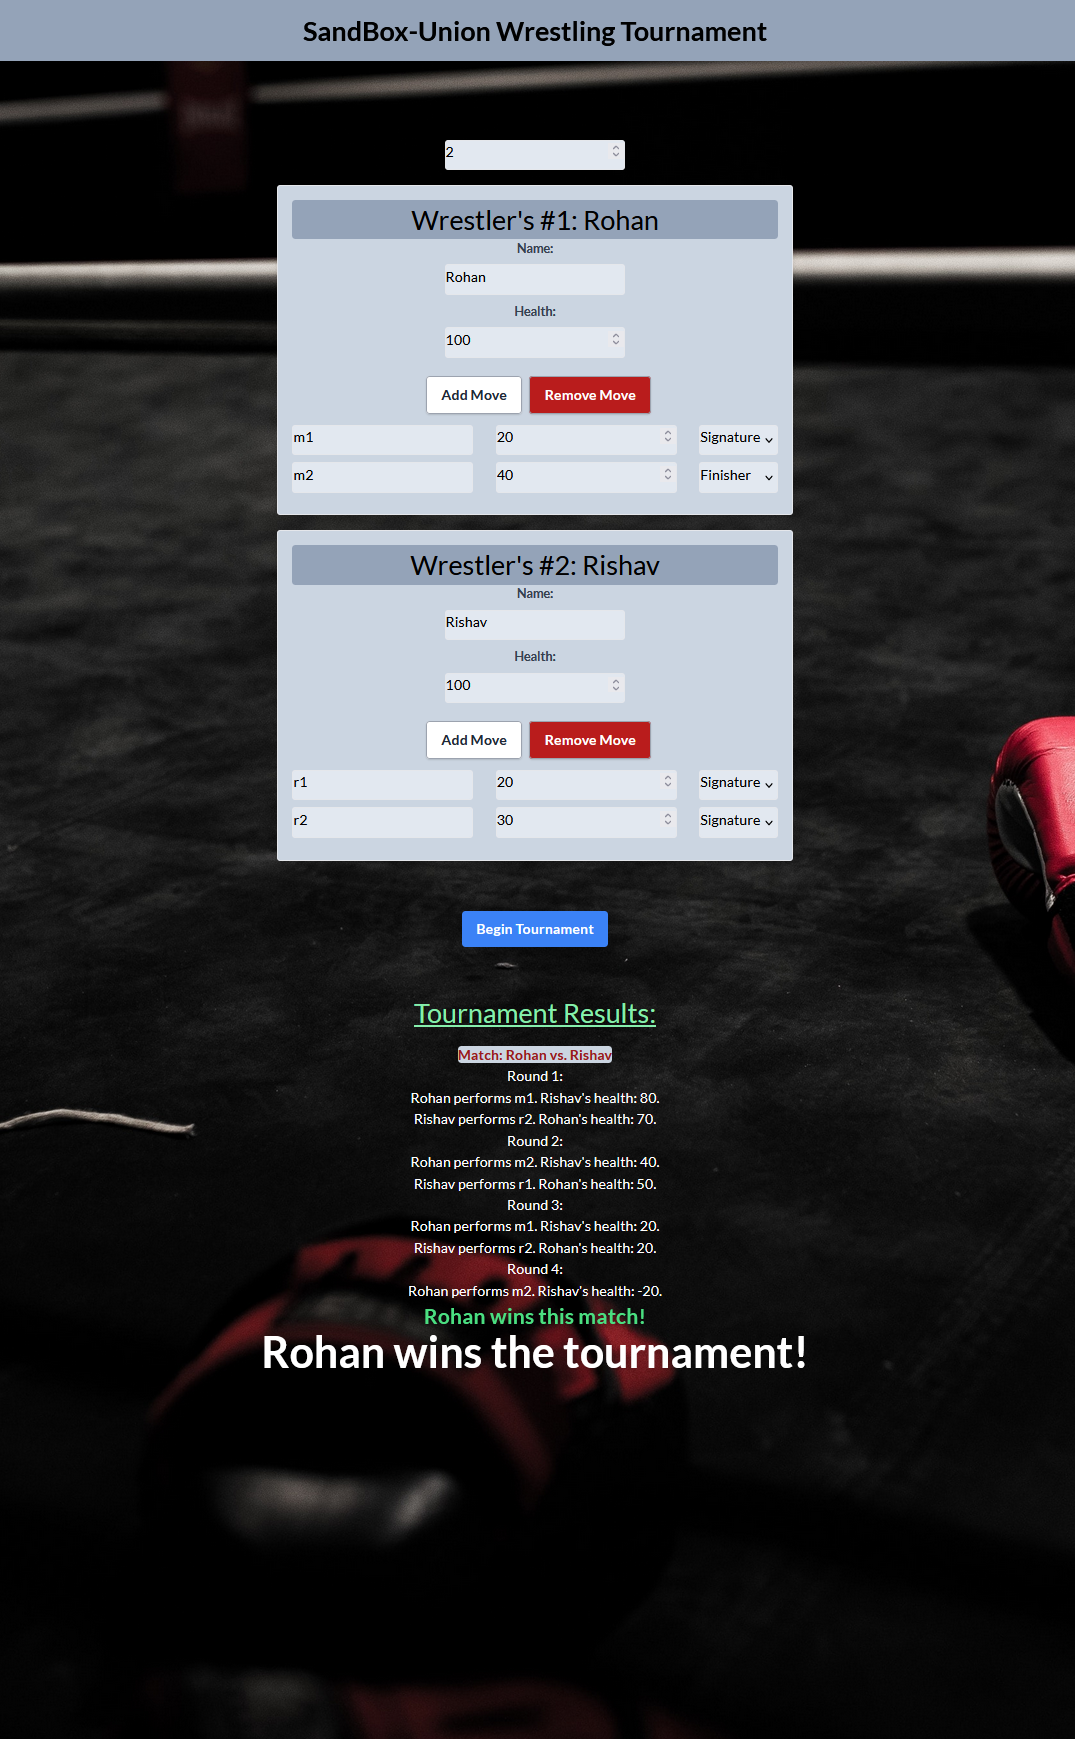
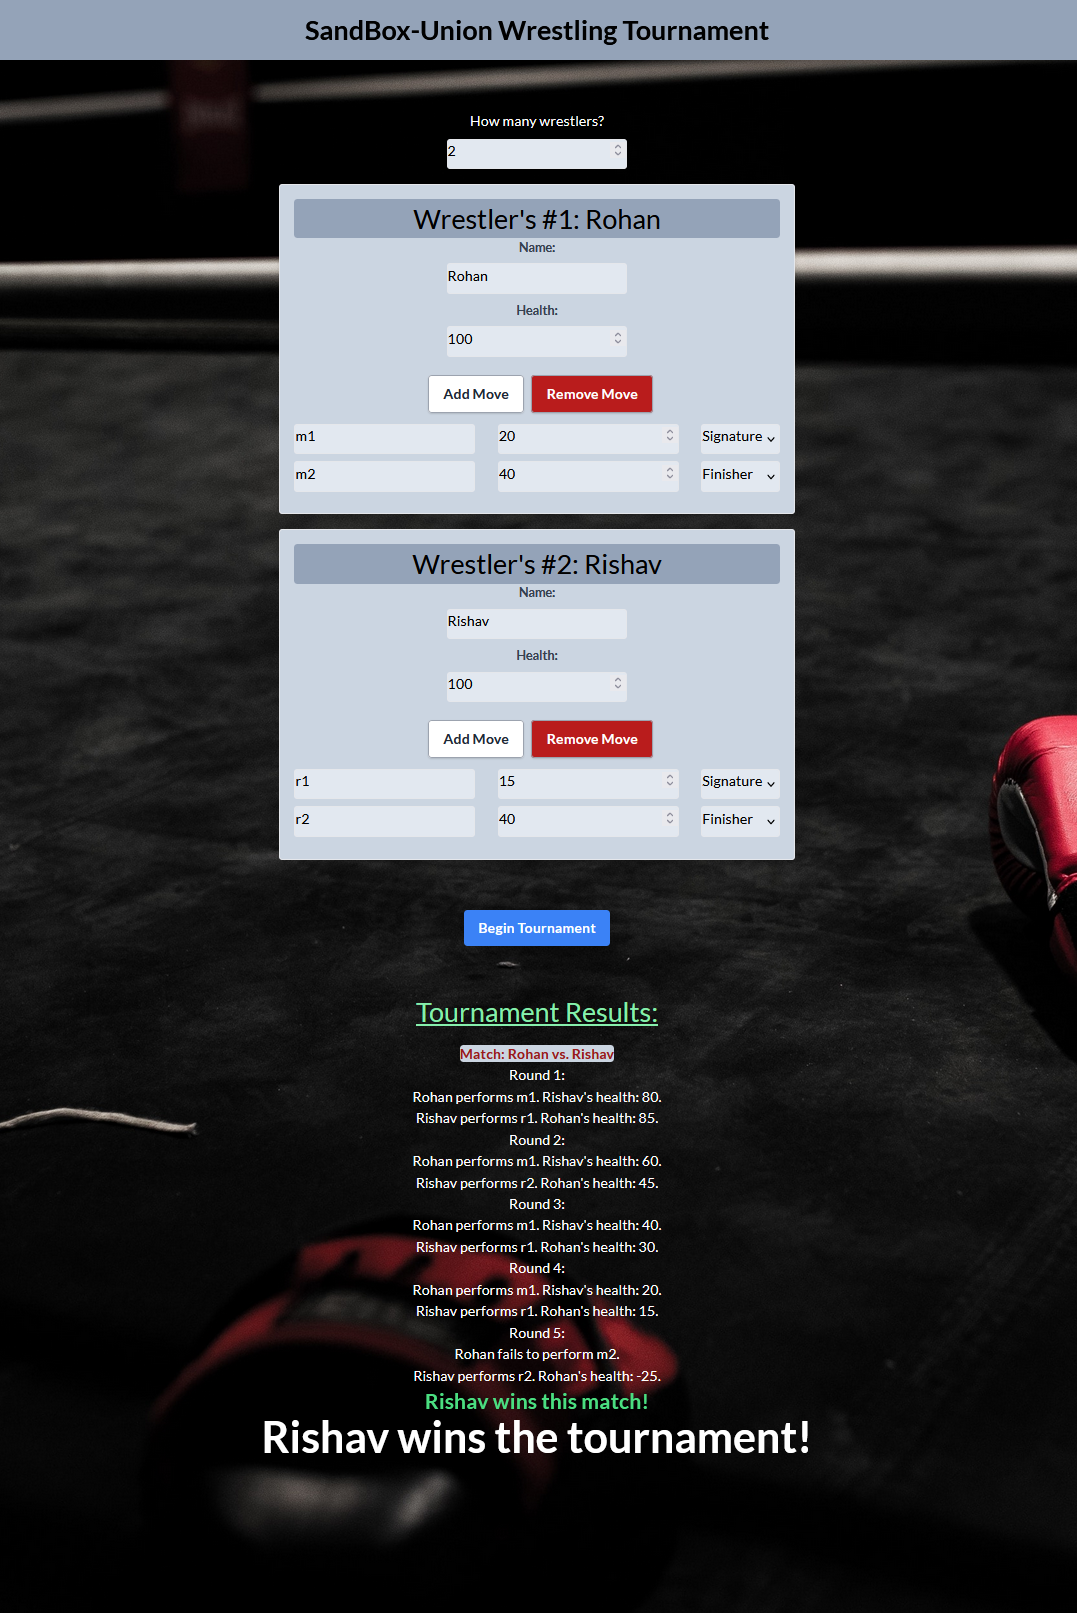
css changes

diff --git a/src/components/WrestlerCountSelector.jsx b/src/components/WrestlerCountSelector.jsx
@@ -11,7 +11,7 @@ function WrestlerCountSelector({ wrestlerCount, setWrestlerCount }) {
 
   return (
     <div className="flex flex-col items-center pt-8">
-      <label className="pb-2">How many wrestlers?</label>
+      <label className="pb-2 text-white">How many wrestlers?</label>
       <input class="bg-slate-200 border rounded pb-2" type="number" value={wrestlerCount} onChange={handleChange} min="0" max="4" />
     </div>
   )
